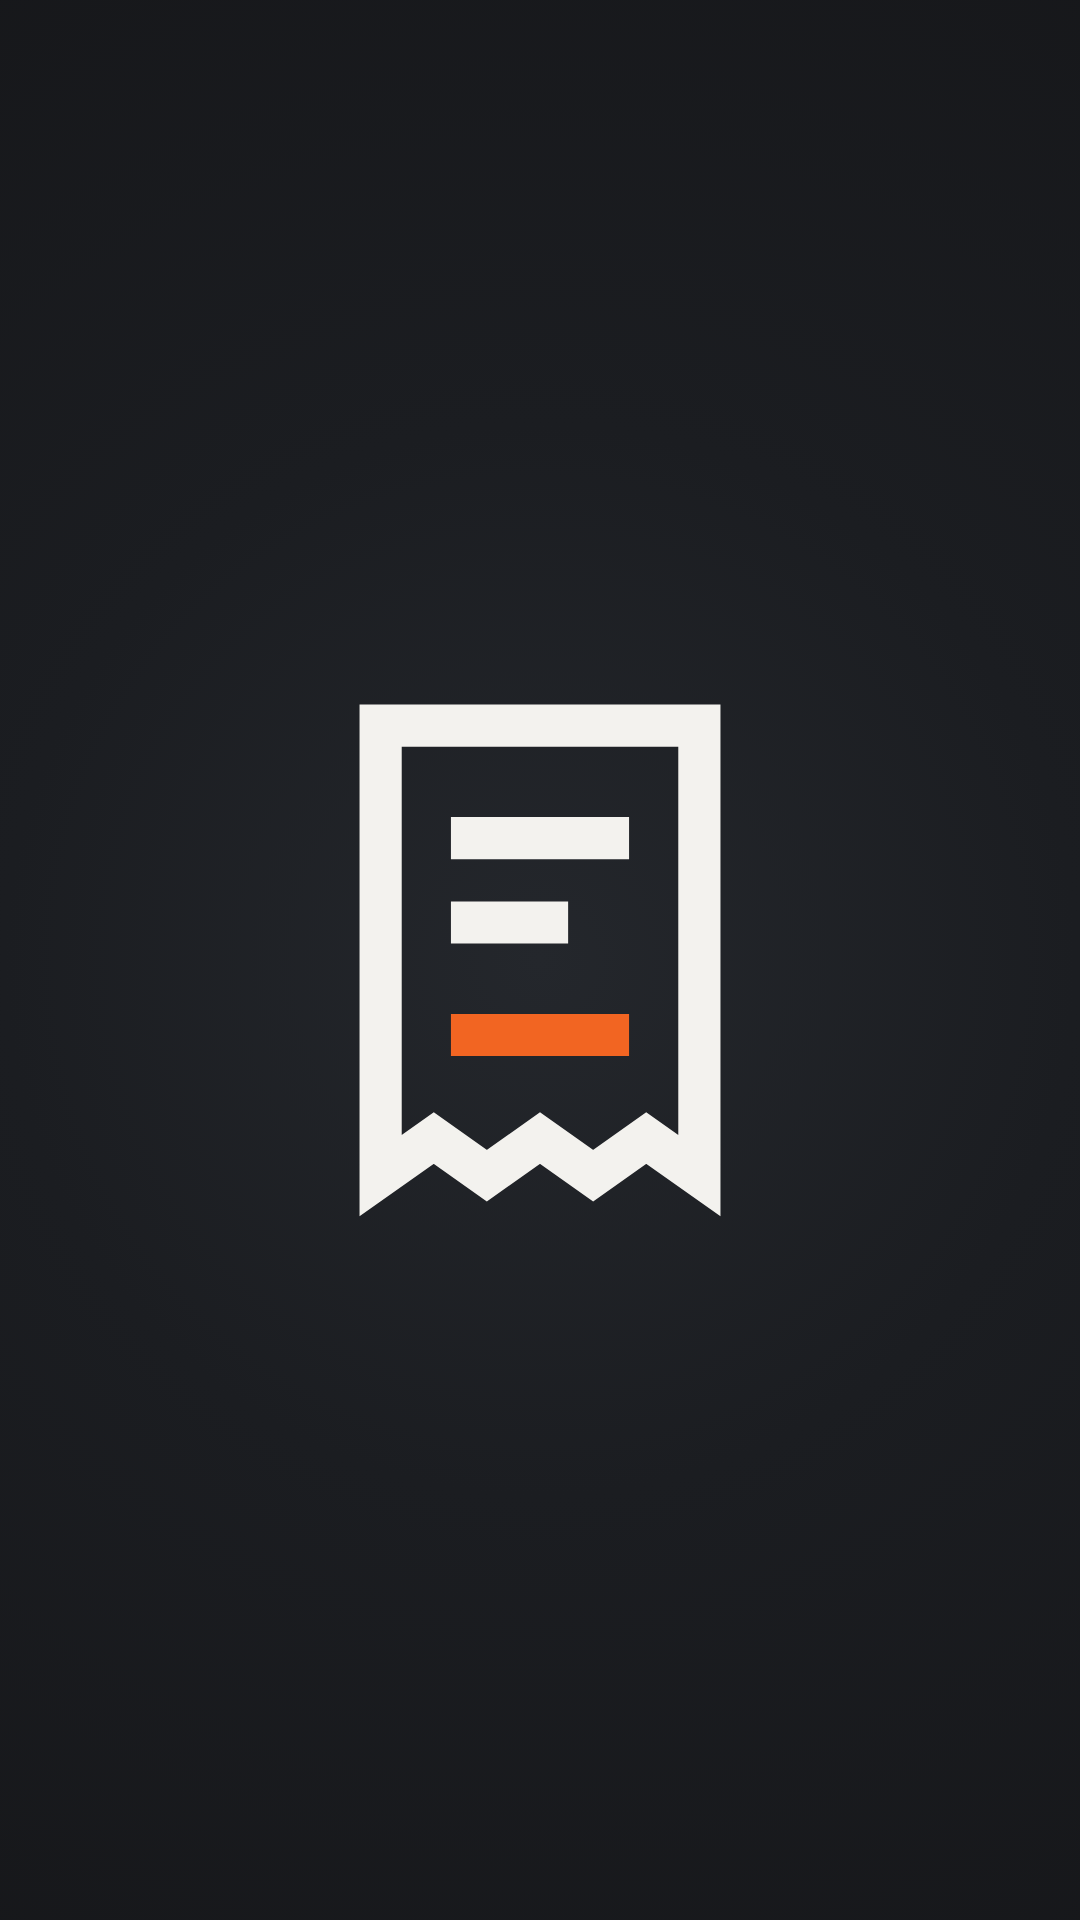
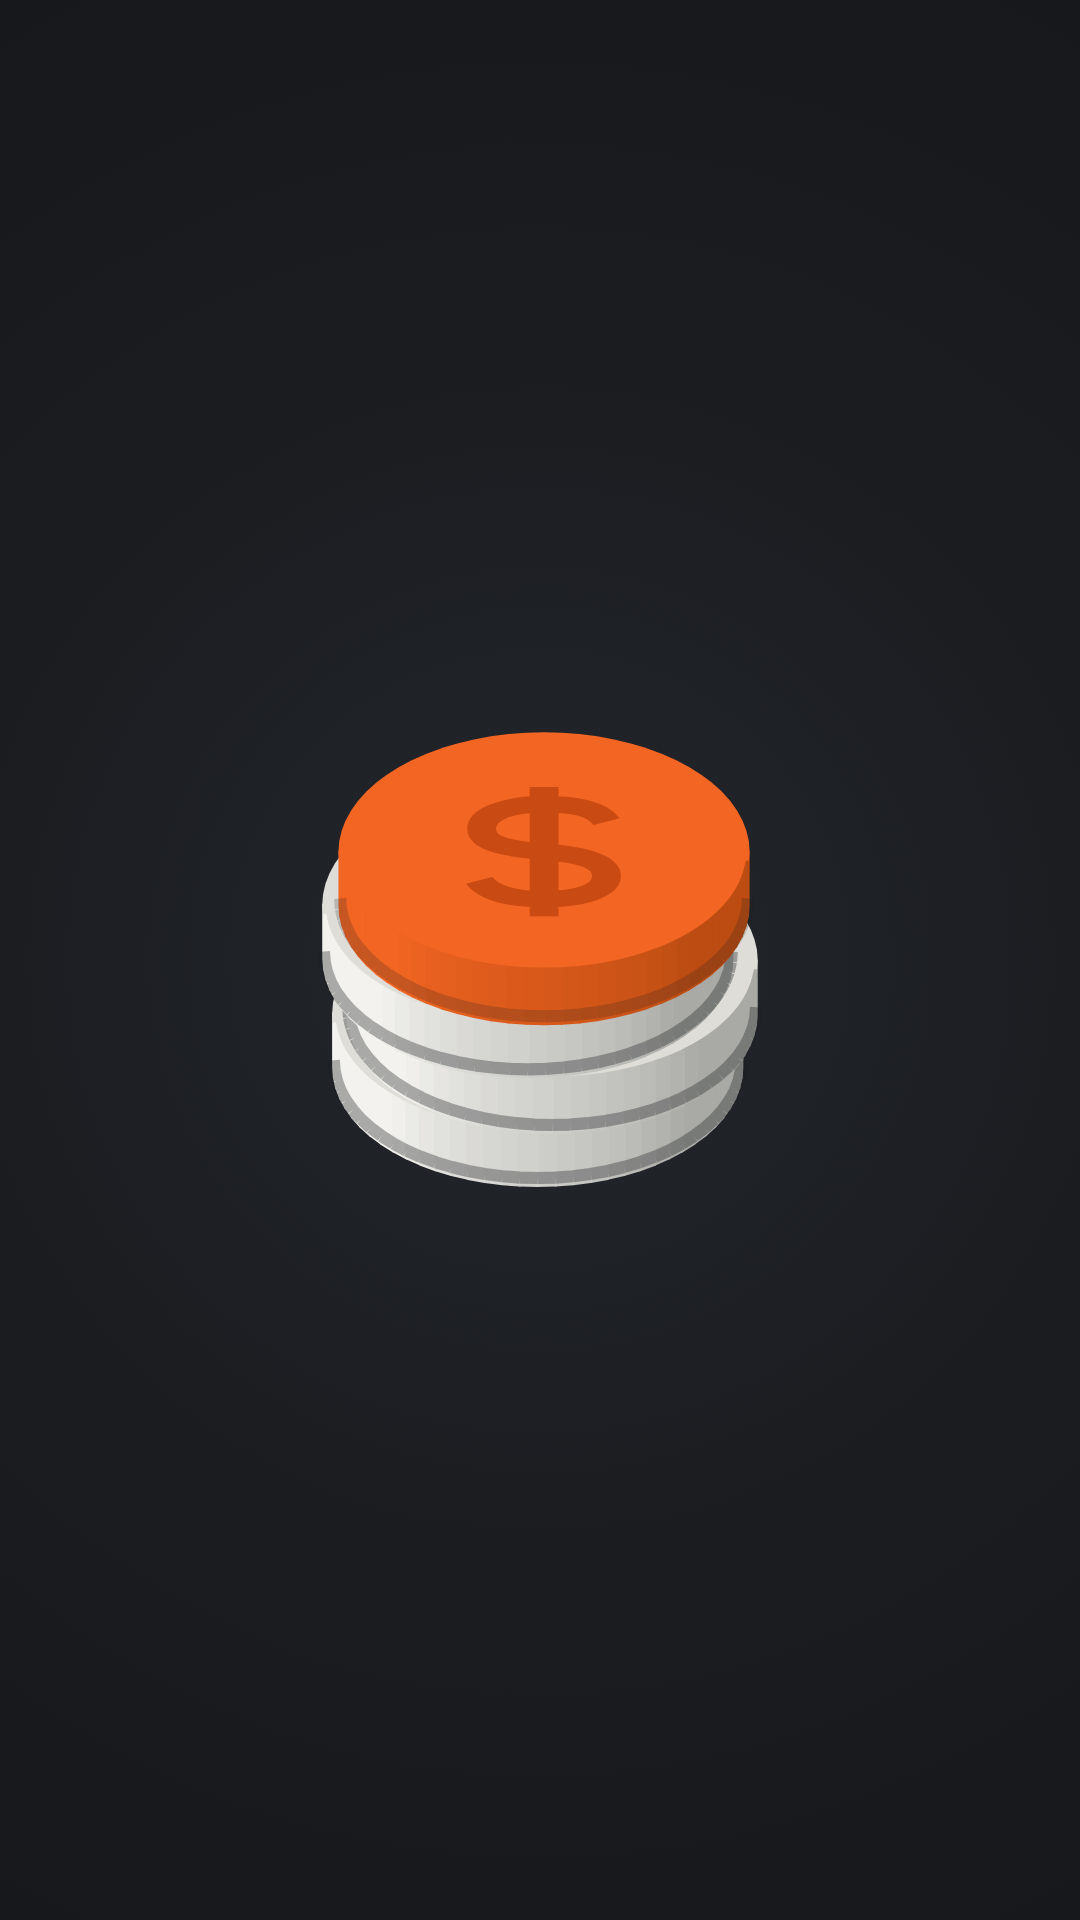
Destaques: os sete no mesmo 3D minimalista de Impressões
Novo motor isométrico (fonte/iso.js): faces chapadas com a luz da esquerda,
linhas de camada contínuas e ordem de pintura por profundidade. Orçamento
vira a pilha de moedas com o cifrão gravado, Clientes o balão com a estrela
em relevo, Sua ideia a lâmpada acesa, Bastidores o bico sobre a camada em
andamento, Cores o carretel e A NYVOS o N impresso em pé. Impressões não muda.

Claude-Session: https://claude.ai/code/session_011184PcH9G9ZqwwvJGvg2fK

Changed region(s): [[0.275, 0.3438, 0.7028, 0.6562]]

diff --git a/assets/social/instagram/fonte/glifos.js b/assets/social/instagram/fonte/glifos.js
@@ -1,51 +1,20 @@
-// NYVOS — capas de destaques, linha minimalista
-// Mesma linguagem do carrossel: fundo grafite, desenho em traço único claro com cantos
-// retos (como o N) e um só detalhe laranja por ícone, sempre no que importa: a peça
-// impressa, o total do orçamento, a estrela, a luz, as camadas, o filamento, o N.
+// NYVOS — capas de destaques, 3D minimalista
+// Cada ícone é uma peça impressa em perspectiva isométrica, com faces chapadas (esquerda clara,
+// topo intermediário, direita na sombra), as linhas de camada à mostra e um só elemento
+// laranja: o topo do cubo, a moeda de cima, a estrela, a lâmpada, a peça, o filamento, o N.
 const { SIMBOLO } = require("./art.js");
+const { MAT, caixa, prisma, torno, cena } = require("./iso.js");
 
 const T = { base: "#F26522", min: "#F3F2EE", carbono: "#1B1D21" };
 const FUNDO = { centro: "#24272C", meio: "#1B1D21", borda: "#16171A" };
-const S = 4.5;      // espessura do traço (grade 96): ~2,5 pt no círculo do destaque no celular
+const S = 4.5;      // espessura do traço da versão A (grade 96)
 
 const fx = (n) => +n.toFixed(2);
 
-// escala/desloca caminhos absolutos (M L H V Z)
-function reposiciona(d, s, tx, ty) {
-  return d.replace(/([MLHVZ])([^MLHVZ]*)/g, (_, c, args) => {
-    const n = args.trim() ? args.trim().split(/[\s,]+/).map(Number) : [];
-    if (c === "H") return "H" + fx(n[0] * s + tx);
-    if (c === "V") return "V" + fx(n[0] * s + ty);
-    if (c === "Z") return "Z";
-    const out = [];
-    for (let i = 0; i < n.length; i += 2) out.push(`${fx(n[i] * s + tx)} ${fx(n[i + 1] * s + ty)}`);
-    return c + out.join(" ");
-  });
-}
-
-function estrela(cx, cy, R, r, pontas = 5) {
-  const pts = [];
-  for (let i = 0; i < pontas * 2; i++) {
-    const a = (-90 + (180 / pontas) * i) * Math.PI / 180, k = i % 2 ? r : R;
-    pts.push(`${fx(cx + k * Math.cos(a))} ${fx(cy + k * Math.sin(a))}`);
-  }
-  return `M${pts.join("L")}Z`;
-}
-
-// `esc`: escala do ícone em curso; o traço é compensado para ficar igual em todos
-let esc = 1;
+// traço e preenchimento planos (versão A de Impressões e o cubo B, desenhados à mão)
 const linha = (d, cor = T.min, l = S) =>
-  `<path d="${d}" fill="none" stroke="${cor}" stroke-width="${fx(l / esc)}" stroke-linejoin="miter" stroke-miterlimit="4"/>`;
+  `<path d="${d}" fill="none" stroke="${cor}" stroke-width="${l}" stroke-linejoin="miter" stroke-miterlimit="4"/>`;
 const cheio = (d, cor = T.min) => `<path d="${d}" fill="${cor}"/>`;
-const anel = (r, cor = T.min, l = S) => `<circle cx="48" cy="48" r="${r}" fill="none" stroke="${cor}" stroke-width="${fx(l / esc)}"/>`;
-const centra = (dx, dy, conteudo) => `<g transform="translate(${dx} ${dy})">${conteudo}</g>`;
-// iguala o tamanho ótico dos ícones: escala em torno do centro sem engrossar ou afinar o traço
-function escala(k, desenho) {
-  esc = k;
-  const s = desenho();
-  esc = 1;
-  return `<g transform="translate(48 48) scale(${k}) translate(-48 -48)">${s}</g>`;
-}
 
 // ---------- os sete ícones (grade 96, centro 48,48) ----------
 
@@ -94,30 +63,80 @@ const impressoraSite = () => {
   return `<image href="${IMP_SITE}" x="${fx(48 - w / 2)}" y="${48 - h / 2}" width="${w}" height="${h}"/>`;
 };
 
-// a nota do orçamento: dois itens e o total em laranja
-const orcamento = () =>
-  linha("M31 23H65V71L59.33 67L53.67 71L48 67L42.33 71L36.67 67L31 71Z") +
-  linha("M38.5 35H57.5") + linha("M38.5 44H51") + linha("M38.5 56H57.5", T.base);
+// ---------- os outros seis, no mesmo 3D minimalista do cubo (motor em iso.js) ----------
+const CAMADA = { L: 5.2 };                       // altura de camada: a mesma do cubo (26 / 5)
 
-// o depoimento: balão com a estrela
-const clientes = () => escala(0.93, () =>
-  linha("M23 25H73V63H45L33 73V63H23Z") + cheio(estrela(48, 44, 11.5, 4.8), T.base));
+// contorno do N a partir do SIMBOLO (só M, H, V, Z), com v para cima
+const N_CONTORNO = (() => {
+  const pts = []; let x = 0, y = 0;
+  for (const [, c, a] of SIMBOLO.matchAll(/([MHVZ])([^MHVZ]*)/g)) {
+    const n = a.trim() ? a.trim().split(/[\s,]+/).map(Number) : [];
+    if (c === "M") [x, y] = n; else if (c === "H") x = n[0]; else if (c === "V") y = n[0]; else continue;
+    pts.push([x, 96 - y]);
+  }
+  return pts;
+})();
 
-// a ideia: a lâmpada acesa
-const BULBO = "M40 58V55C40 50 31 47.5 31 38.5A17 17 0 0 1 65 38.5C65 47.5 56 50 56 55V58Z";
-const ideia = () => centra(0, 2.5, cheio(BULBO, T.base) + linha(BULBO) + linha("M41 65H55") + linha("M44 71.5H52"));
+// Orçamento: a pilha de moedas; a de cima, laranja, com o cifrão gravado
+const CIFRAO = "M5 -4.2C4.2 -6 2.5 -6.6 0 -6.6C-3 -6.6 -5 -5.2 -5 -3.2C-5 -1 -2.8 -.4 0 0C2.8 .4 5 1.2 5 3.4C5 5.4 3 6.6 0 6.6C-2.6 6.6 -4.4 5.8 -5.2 4M0 -9V9";
+const orcamento = () => {
+  const r = 16, h = CAMADA.L, desloc = [[0, 0], [.9, -.7], [-.6, .5], [.4, -.3]];
+  const moedas = desloc.map(([ox, oz], i) => ({
+    faces: torno([[r, 0], [r, h]], { c: [ox, i * h, oz], m: i === 3 ? MAT.laranja : MAT.mineral, camada: { L: h, base: .7 } }),
+  }));
+  const [ox, oz] = desloc[3];
+  moedas[3].extra = (proj) => {
+    const [cx, cy] = proj([ox, 4 * h, oz]), k = 1.2;
+    return `<path d="${CIFRAO}" fill="none" stroke="#C94A12" stroke-width="2.3" transform="matrix(${k} 0 0 ${fx(k * 0.577)} ${fx(cx)} ${fx(cy)})"/>`;
+  };
+  return cena(moedas, { tam: 48 });
+};
 
-// o processo: o bico depositando as camadas
-const bastidores = () => centra(0, 4.25,
-  linha("M36 22H60") + linha("M36 28.5H60") + linha("M36 35H60") + linha("M48 22V40") +
-  cheio("M37 38H59V49H37Z") + cheio("M43.5 49H52.5L48 56Z") +
-  linha("M24 65.5H72", T.base) + linha("M24 59H48", T.base));
+// Clientes: o balão do depoimento com a estrela em relevo, virado para quem olha
+const clientes = () => {
+  const balao = [[-16, 0], [-10, 0], [-13, -7], [-4, 0], [16, 0], [16, 22], [-16, 22]];
+  const est = Array.from({ length: 10 }, (_, i) => {
+    const a = Math.PI / 2 + i * Math.PI / 5, k = i % 2 ? 3.8 : 9;
+    return [k * Math.cos(a), 11 + k * Math.sin(a)];
+  });
+  const cam = { L: CAMADA.L, base: -7 }, giro = { giro: 30 };
+  return cena([
+    { faces: prisma(balao, -3.5, 3.5, MAT.mineral, cam, giro) },
+    { faces: prisma(est, 3.5, 6.3, MAT.laranja, cam, giro) },
+  ], { tam: 50 });
+};
 
-// as cores: o carretel com o filamento enrolado e a ponta saindo
-const cores = () => centra(-2, 0, anel(23) + anel(14.5, T.base, 7.5) + anel(6.5) + linha("M48 62.5H76", T.base));
+// Sua ideia: a lâmpada acesa; a rosca da base é feita das próprias camadas
+const ideia = () => cena([
+  { faces: torno([[2.8, 0], [2.8, 2.6]], { m: MAT.carbono }) },
+  { faces: torno([[6.2, 2.6], [6.2, 13], [7.2, 13], [7.2, 15.6]], { m: MAT.mineral, camada: { L: 2.6 } }) },
+  { faces: torno([[6.6, 15.6], [8.4, 19], [11.6, 23], [14, 27.5], [15, 32], [14.5, 36.5], [12.8, 40.5], [10, 43.6], [6, 45.8], [0, 46.6]],
+    { m: MAT.laranja, camada: { L: CAMADA.L, base: 15.6 } }) },
+], { tam: 55 });
 
-// a marca
-const nyvos = () => cheio(reposiciona(SIMBOLO, 40 / 96, 28, 28), T.base);
+// Bastidores: o bico depositando a camada em andamento sobre a peça
+const bastidores = () => cena([
+  { faces: caixa([-14, 0, -8], [28, 10.4, 16], MAT.laranja, CAMADA) },
+  { faces: caixa([-14, 10.4, -8], [15, 5.2, 16], MAT.laranja, CAMADA) },
+  { faces: torno([[1.3, 0], [5, 7.5]], { c: [1, 16.1, 0], m: MAT.mineral }) },
+  { faces: caixa([-5, 23.6, -6], [12, 7, 12], MAT.mineral) },
+  { faces: torno([[2.2, 0], [2.2, 14]], { c: [1, 30.6, 0], m: MAT.carbono }) },
+  ...[0, 1, 2].map((k) => ({ faces: caixa([-7, 33.6 + k * 4.6, -7], [16, 1.5, 14], MAT.mineral) })),
+], { tam: 55 });
+
+// Cores: o carretel deitado, com o filamento laranja enrolado entre as abas
+const cores = () => cena([
+  { faces: torno([[17, -9], [17, -6.6]], { eixo: "z", m: MAT.mineral }) },
+  { faces: torno([[12, -6.6], [12, 6.6]], { eixo: "z", m: MAT.laranja, camada: { L: 2.2, base: -6.6, eixo: 2 } }) },
+  { faces: torno([[17, 6.6], [17, 9]], { eixo: "z", m: MAT.mineral }) },
+  { faces: torno([[4.6, 9], [4.6, 9.4]], { eixo: "z", m: MAT.carbono }) },
+], { tam: 50 });
+
+// A NYVOS: o N impresso em pé
+const nyvos = () => {
+  const k = 30 / 96;
+  return cena([{ faces: prisma(N_CONTORNO.map(([x, y]) => [x * k - 15, y * k]), -4.5, 4.5, MAT.laranja, { L: 7.5 }, { giro: 30 }) }], { tam: 50 });
+};
 
 const DESTAQUES = [
   { id: "01-impressoes", nome: "Impressões", sobre: "Peças saindo da impressora: do modelo 3D à peça pronta", svg: cuboVolume },

diff --git a/assets/social/instagram/fonte/iso.js b/assets/social/instagram/fonte/iso.js
@@ -1,0 +1,128 @@
+// NYVOS — motor isométrico dos ícones 3D dos destaques
+// Projeção isométrica (30°), faces chapadas sem degradê: a luz vem da esquerda, então a face
+// voltada para a esquerda (+z) é a mais clara, o topo (+y) intermediário e a direita (+x) a
+// sombra, igual ao cubo de Impressões. Faces verticais ganham as linhas de camada da impressão.
+// Eixos: x desce para a direita, z desce para a esquerda, y sobe.
+const R3 = Math.sqrt(3) / 2;
+const fx = (n) => +n.toFixed(2);
+const OLHO = [1, 1, 1];
+const dot = (a, b) => a[0] * b[0] + a[1] * b[1] + a[2] * b[2];
+const unit = (v) => { const l = Math.hypot(...v) || 1; return v.map((c) => c / l); };
+const proj = ([x, y, z]) => [(x - z) * R3, -y + (x + z) * 0.5];
+
+// materiais: tom da face voltada para a esquerda (e), para cima (t) e para a direita (d)
+const MAT = {
+  mineral: { e: "#F3F2EE", t: "#DEDDD8", d: "#A9AAA6", sulco: .34 },
+  laranja: { e: "#F26522", t: "#F26522", d: "#BC4C12", sulco: .2 },
+  carbono: { e: "#3A3D44", t: "#2C2F35", d: "#1F2125", sulco: 0 },
+};
+const hex = (h) => [1, 3, 5].map((i) => parseInt(h.slice(i, i + 2), 16));
+const rgb = (c) => "#" + c.map((v) => Math.round(v).toString(16).padStart(2, "0")).join("");
+function tom(m, n) {
+  const w = [Math.max(0, n[2]), Math.max(0, n[1]), Math.max(0, n[0])], s = w[0] + w[1] + w[2] || 1;
+  const cs = [m.e, m.t, m.d].map(hex);
+  return rgb([0, 1, 2].map((i) => (w[0] * cs[0][i] + w[1] * cs[1][i] + w[2] * cs[2][i]) / s));
+}
+
+// ---------- primitivas (só as faces voltadas para quem olha) ----------
+const visivel = (f) => dot(f.n, OLHO) > 1e-4;
+
+function caixa([x0, y0, z0], [dx, dy, dz], m, camada) {
+  const [x1, y1, z1] = [x0 + dx, y0 + dy, z0 + dz];
+  return [
+    { p: [[x0, y1, z0], [x1, y1, z0], [x1, y1, z1], [x0, y1, z1]], n: [0, 1, 0], m, camada },
+    { p: [[x1, y0, z0], [x1, y1, z0], [x1, y1, z1], [x1, y0, z1]], n: [1, 0, 0], m, camada },
+    { p: [[x0, y0, z1], [x1, y0, z1], [x1, y1, z1], [x0, y1, z1]], n: [0, 0, 1], m, camada },
+  ].map((f) => ({ ...f, convexo: true }));
+}
+
+// contorno 2D (u para a direita, v para cima) extrudado de z0 até z1; a frente fica em z1.
+// `giro`: gira a peça em torno do eixo vertical (graus) para a frente encarar quem olha;
+// 30° deixa a frente quase de frente (só ~9° de inclinação) e mostra a espessura na lateral
+function prisma(contorno, z0, z1, m, camada, { giro = 0, pos = [0, 0, 0] } = {}) {
+  let area = 0;
+  contorno.forEach(([u, v], i) => { const [u2, v2] = contorno[(i + 1) % contorno.length]; area += u * v2 - u2 * v; });
+  const c = area < 0 ? [...contorno].reverse() : contorno;             // anti-horário
+  const g = giro * Math.PI / 180, cg = Math.cos(g), sg = Math.sin(g);
+  const rot = ([x, y, z]) => [x * cg + z * sg, y, -x * sg + z * cg];
+  const ponto = (u, v, z) => rot([u, v, z]).map((w, q) => w + pos[q]);
+  const faces = [{ p: c.map(([u, v]) => ponto(u, v, z1)), n: rot([0, 0, 1]), m, camada }];
+  c.forEach(([u, v], i) => {
+    const [u2, v2] = c[(i + 1) % c.length];
+    faces.push({ p: [ponto(u, v, z0), ponto(u2, v2, z0), ponto(u2, v2, z1), ponto(u, v, z1)], n: rot(unit([v2 - v, -(u2 - u), 0])), m, camada });
+  });
+  return faces.filter(visivel);
+}
+
+// sólido de revolução: perfil [[raio, altura], ...] em torno do eixo y (de pé) ou z (deitado)
+function torno(perfil, { c = [0, 0, 0], eixo = "y", seg = 72, m, camada }) {
+  const pt = (r, h, a) => eixo === "y"
+    ? [c[0] + r * Math.cos(a), c[1] + h, c[2] + r * Math.sin(a)]
+    : [c[0] + r * Math.cos(a), c[1] + r * Math.sin(a), c[2] + h];
+  const ax = eixo === "y" ? [0, 1, 0] : [0, 0, 1];
+  const faces = [];
+  for (let i = 0; i < perfil.length - 1; i++) {
+    const [ra, ha] = perfil[i], [rb, hb] = perfil[i + 1];
+    for (let k = 0; k < seg; k++) {
+      const a1 = (k / seg) * 2 * Math.PI, a2 = ((k + 1) / seg) * 2 * Math.PI;
+      const p = [pt(ra, ha, a1), pt(ra, ha, a2), pt(rb, hb, a2), pt(rb, hb, a1)];
+      // normal para fora: no plano do perfil é (dh, -dr) (perfil percorrido de baixo para cima)
+      const am = (a1 + a2) / 2, radial = eixo === "y" ? [Math.cos(am), 0, Math.sin(am)] : [Math.cos(am), Math.sin(am), 0];
+      const [nr, nh] = unit([hb - ha, -(rb - ra), 0]);
+      faces.push({ p, n: unit(radial.map((v, q) => v * nr + ax[q] * nh)), m, camada, convexo: true });
+    }
+  }
+  const [rf, hf] = perfil[perfil.length - 1];
+  if (rf > 0) faces.push({ p: Array.from({ length: seg }, (_, k) => pt(rf, hf, (k / seg) * 2 * Math.PI)), n: ax, m, camada: null, convexo: true });
+  return faces.filter(visivel);
+}
+
+// linhas de camada: planos y = cte (ou z = cte para o filamento enrolado) cortando a face
+function sulcos(f) {
+  if (!f.camada || !f.m.sulco) return "";
+  const { L, base = 0, eixo = 1 } = f.camada;
+  if (Math.abs(f.n[eixo]) > 0.98) return "";
+  const vs = f.p.map((p) => p[eixo]), lo = Math.min(...vs), hi = Math.max(...vs);
+  let d = "";
+  for (let k = Math.ceil((lo - base) / L + 1e-6); base + k * L < hi - 1e-6; k++) {
+    const c = base + k * L, pts = [];
+    f.p.forEach((a, j) => {
+      const b = f.p[(j + 1) % f.p.length];
+      if ((a[eixo] - c) * (b[eixo] - c) < 0) { const t = (c - a[eixo]) / (b[eixo] - a[eixo]); pts.push(proj(a.map((v, q) => v + (b[q] - v) * t))); }
+    });
+    pts.sort((p, q) => p[0] - q[0] || p[1] - q[1]);
+    for (let i = 0; i + 1 < pts.length; i += 2) d += `M${fx(pts[i][0])} ${fx(pts[i][1])}L${fx(pts[i + 1][0])} ${fx(pts[i + 1][1])}`;
+  }
+  return d;
+}
+
+// ---------- cena ----------
+// objetos na ordem de trás para a frente; dentro de cada um, as faces vão da mais distante à mais
+// próxima. `tam`: maior medida na grade 96; `oy`: ajuste ótico vertical. Traços com espessura fixa.
+function cena(objetos, { tam = 52, oy = 0 } = {}) {
+  const todas = objetos.flatMap((o) => o.faces);
+  const ps = todas.flatMap((f) => f.p.map(proj));
+  const x0 = Math.min(...ps.map((p) => p[0])), x1 = Math.max(...ps.map((p) => p[0]));
+  const y0 = Math.min(...ps.map((p) => p[1])), y1 = Math.max(...ps.map((p) => p[1]));
+  const s = tam / Math.max(x1 - x0, y1 - y0);
+  const tx = 48 - s * (x0 + x1) / 2, ty = 48 + oy - s * (y0 + y1) / 2;
+  const prof = (f) => dot(f.p.reduce((a, p) => [a[0] + p[0], a[1] + p[1], a[2] + p[2]], [0, 0, 0]), OLHO) / f.p.length;
+  const linhas = (d, m) => d ? `<path d="${d}" fill="none" stroke="#1B1D21" stroke-opacity="${m.sulco}" stroke-width="${fx(1.3 / s)}"/>` : "";
+  let svg = "";
+  for (const o of objetos) {
+    // num sólido convexo as faces visíveis não se sobrepõem: as camadas vão por cima, num traço contínuo;
+    // num prisma côncavo (N, estrela) cada face leva as suas antes da seguinte cobrir o que estiver atrás
+    const convexo = o.faces.every((f) => f.convexo);
+    let depois = "";
+    for (const f of [...o.faces].sort((a, b) => prof(a) - prof(b))) {
+      const cor = tom(f.m, f.n), d = "M" + f.p.map((p) => proj(p).map(fx).join(" ")).join("L") + "Z";
+      svg += `<path d="${d}" fill="${cor}" stroke="${cor}" stroke-width="${fx(0.35 / s)}" stroke-linejoin="round"/>`;
+      if (convexo) depois += sulcos(f); else svg += linhas(sulcos(f), f.m);
+    }
+    if (convexo && o.faces.length) svg += linhas(depois, o.faces[0].m);
+    if (o.extra) svg += o.extra(proj, s);
+  }
+  return `<g transform="translate(${fx(tx)} ${fx(ty)}) scale(${fx(s)})">${svg}</g>`;
+}
+
+module.exports = { R3, MAT, proj, caixa, prisma, torno, cena };
